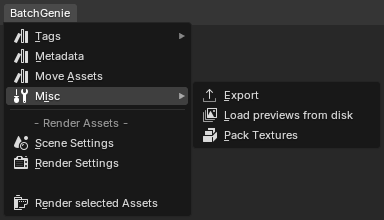
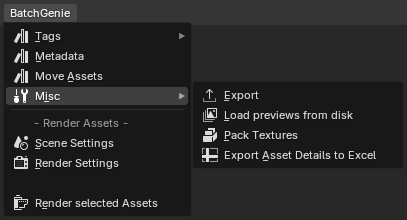
landing page updates

diff --git a/landing-page/docs/index.md b/landing-page/docs/index.md
@@ -274,6 +274,26 @@ This utility includes options for aligning mesh names with object names and sync
 
 ---
 
+### Convert Images
+
+![Convert Images](images/utility_convert-images.png){ .img-box align=right }
+
+Convert images in the selected source to your desired format, supporting bulk processing within Blender's current project or from a specified directory, and optionally downscale images during the process.
+
+<div style="clear:both"></div>
+
+---
+
+### Relink Converted Images
+
+![Convert Images](images/utility_relink-converted-images.png){ .img-box align=left }
+
+This utility helps you update Blender's links to images that have been converted to a different file format.
+
+<div style="clear:both"></div>
+
+---
+
 ### Reload Images
 
 ![Reload Images](images/utility_reload_images.png){ .img-box align=right }
@@ -373,6 +393,10 @@ Batch load custom Asset Preview images from a specified directory.
 #### Pack Textures
 
 This feature packs all associated textures into their respective blend files, ensuring that your assets retain their appearance without the need for external texture files.
+
+####  Export Asset Details to Excel
+
+Export detailed information about your assets from the Asset Browser into an Excel file for easy analysis and management
 
 <div style="clear:both"></div>
 
